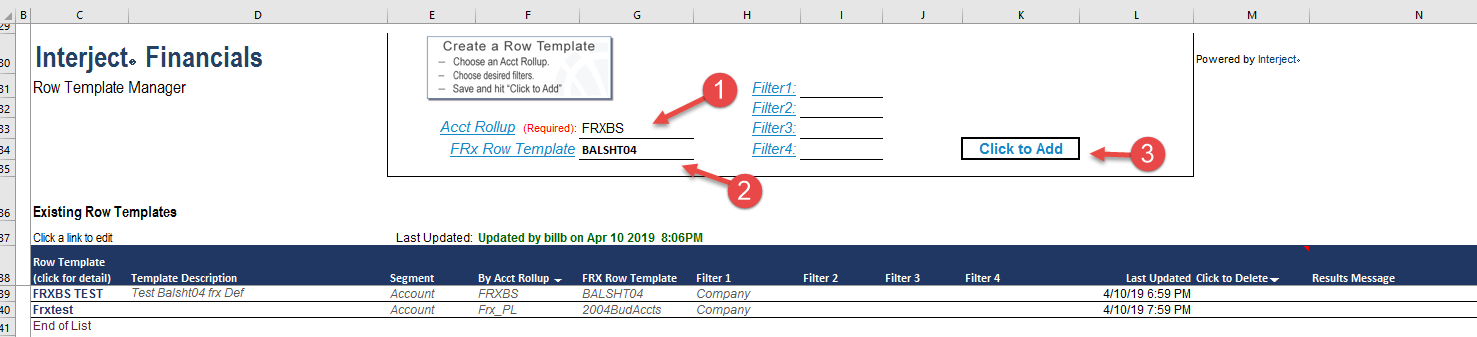
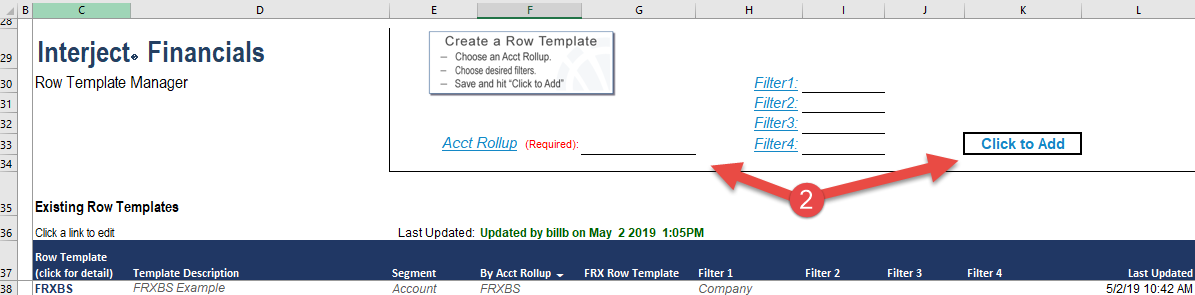
FRx Updates

diff --git a/bApps/bFinancials/ReportTemplates.md b/bApps/bFinancials/ReportTemplates.md
@@ -15,9 +15,9 @@ The following steps will walk through a single Balance Sheet creation, but the p
 >
 > **Step 2:** On the Rollup Manager screen, click on "Segment" in the "Add New Rollup" section and select a segment from the list. We will choose "Accounts" for this example.
 >
-> **Step 3:** Click the "FRx Row Template" link and choose an FRx Row Template from the list. We'll choose "BALSHT04" for this example.
+> **Step 3:**  Hit the "Click to Add" button.
 >
-> **Step 4:** Hit the "Click to Add" button
+> **Note:** If you're choosing to reference FRx row templates, it is best to have the FRx Catalog open in a separate window.
 >
 > ![Transaction Report 1](/images/Train/BuildReport1.png){: .center-image }
 >
@@ -25,7 +25,7 @@ The following steps will walk through a single Balance Sheet creation, but the p
 
 ### Account Rollup Screen
 
-After hitting "Click to Add", a new sheet will open with the FRx row template reference on the left and an empty template on the right. This is where you'll set up the account rollup definitions and validation 
+After hitting "Click to Add", a new sheet will open with an empty template. This is where you'll set up the account rollup definitions and validation 
 
 > To Do
 >
@@ -35,25 +35,22 @@ After hitting "Click to Add", a new sheet will open with the FRx row template re
 >
 > **Step 3:** Click the "Apply Validation" link and choose "Yes"
 >
-> **Step 4:** Click "Row Type" on the left sheet, and choose both "Detail" and "Subtotal", then click **Pull FRx**. This will help give you the "Detail Account Definitions" that define the rows of your report.
+> **Step 4:** In the "Validation Definition" field, begin typing the formula **=JCombineSmart\(\)**, then double-click that formula from the menu
 >
-> **Step 5:** In the "Validation Definition" field, begin typing the formula **=JCombineSmart\(\)**, then double-click that formula from the menu
->
->  - **Step 5a:** With the formula open, select all of the "Row Definitions" under the FRx Template Reference and hit enter. This will populate the "Validation Definition" with every FRx Definition needed.
+>  - **Step 5a:** With the formula open, select all of the "Row Definitions" in the FRx Row Format tab of the catalog, then hit enter. This will populate the "Validation Definition" with every FRx Definition needed.
 >
 >  - **Step 5b:** Now select the the cell containing all the "Validation Definitions," copy the cell, and paste it back into the same cell as **Values** using the "Special Paste" option in Excel
 >
 > ![Account Rollup](/images/Train/AcctRollupNew.png){: .center-image }
-> ![Account Rollup](/images/Train/AcctRollupNew2.png){: .center-image }
 >
 
 ### Building Your Rollups
 
 > To Do
 >
-> **Step 1:** Now write the codes for each Rollup in the "Rollup Section" column of your template using the FRx Template References. These will correspond to the subtotals in the FRx Template Reference section. The necessary prefixes will be attached automatically.
+> **Step 1:** Now write the codes for each Rollup in the "Rollup Section" of your template using the FRx Row Format screen. These will correspond to the subtotals in the FRx Row Template catalog report. The necessary prefixes will be attached automatically.
 >
-> **Step 2:** In each row with a code, designate the "Order" in maganitudes of at least ten, then in the "Detail Account Definiton" column, use **=JCombineSmart\(\)** again, selecting all necessary rows for each subtotaled section from FRx Template Reference
+> **Step 2:** In each row with a code, designate the "Order" in maganitudes of at least ten, then in the "Detail Account Definiton" column, use **=JCombineSmart\(\)** again, selecting all necessary rows for each subtotaled section from FRx Row Template report.
 >
 > **Step 3:** Hit Ctrl+Shift+U or the "Save" Button to save
 >
@@ -66,7 +63,7 @@ After hitting "Click to Add", a new sheet will open with the FRx row template re
 >
 > **Step 1:** Go back to the Configuration Manager Welcome screen and then click the link to "Setup/Review Report Templates"
 >
-> **Step 2:** In the "Row Template Manager", click "Acct Rollup" to choose an account, and click "FRx Row Template" to choose the legacy row template as a reference. Then hit "Click to Add".
+> **Step 2:** In the "Row Template Manager", click "Acct Rollup" to choose an account. Then hit "Click to Add."
 >
 > ![Account Rollup](/images/Train/BuildRow.png){: .center-image }
 >
